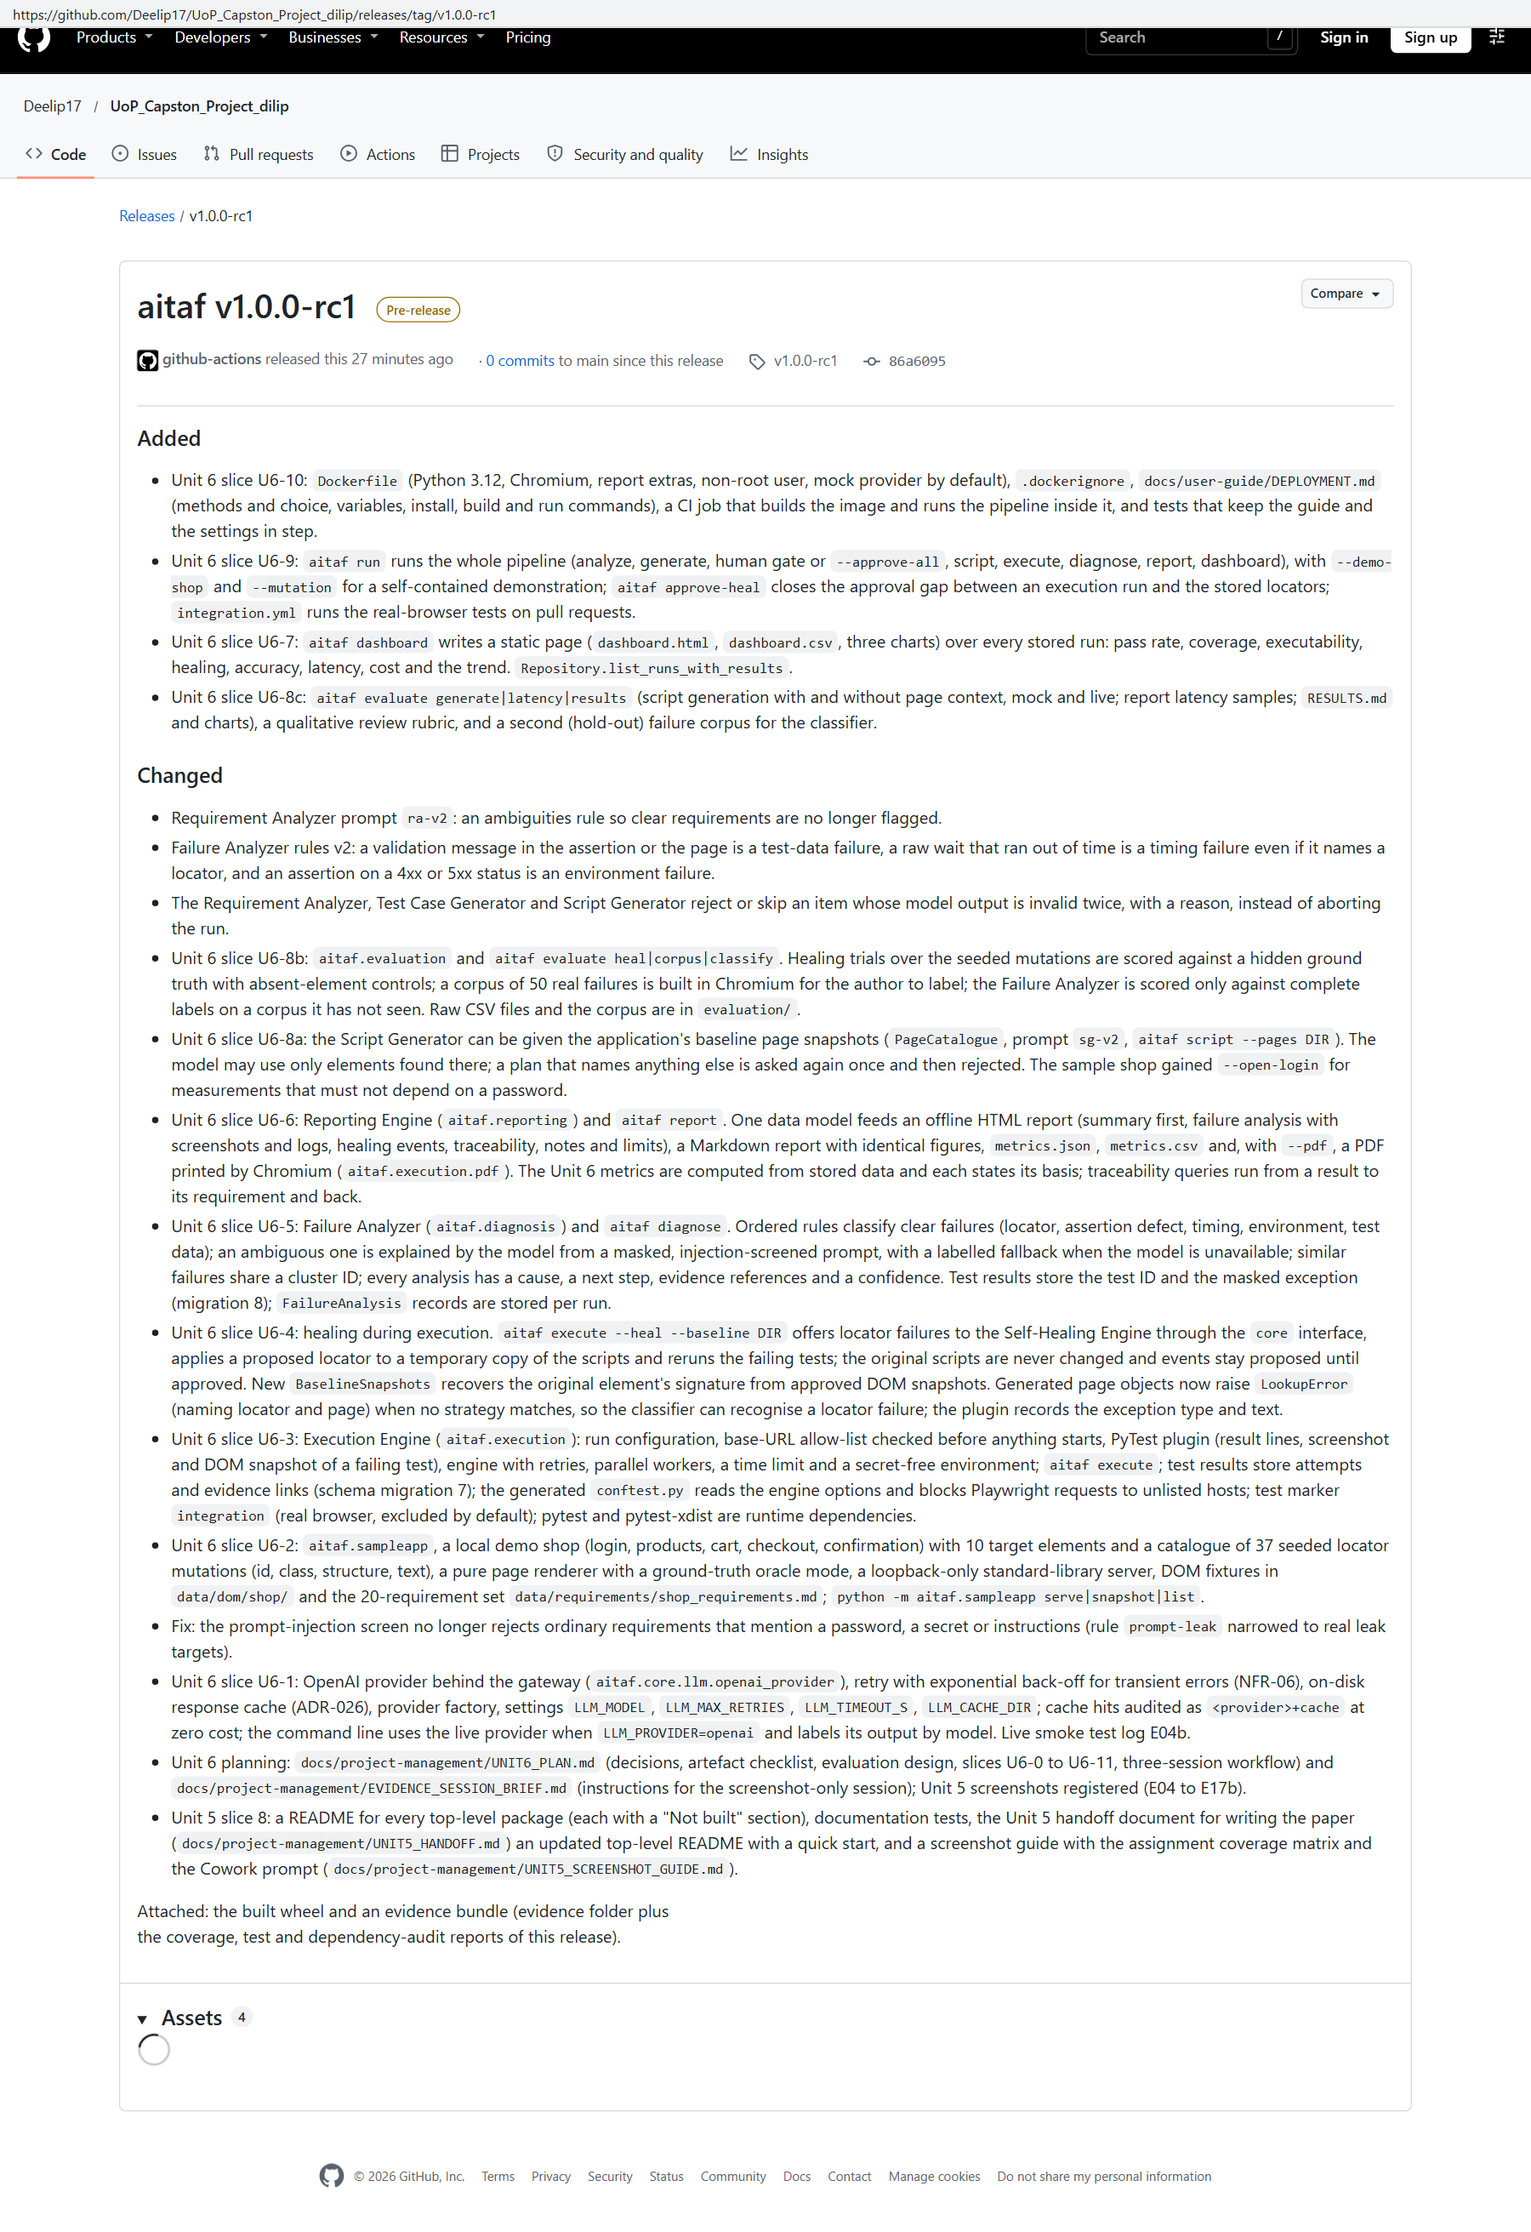
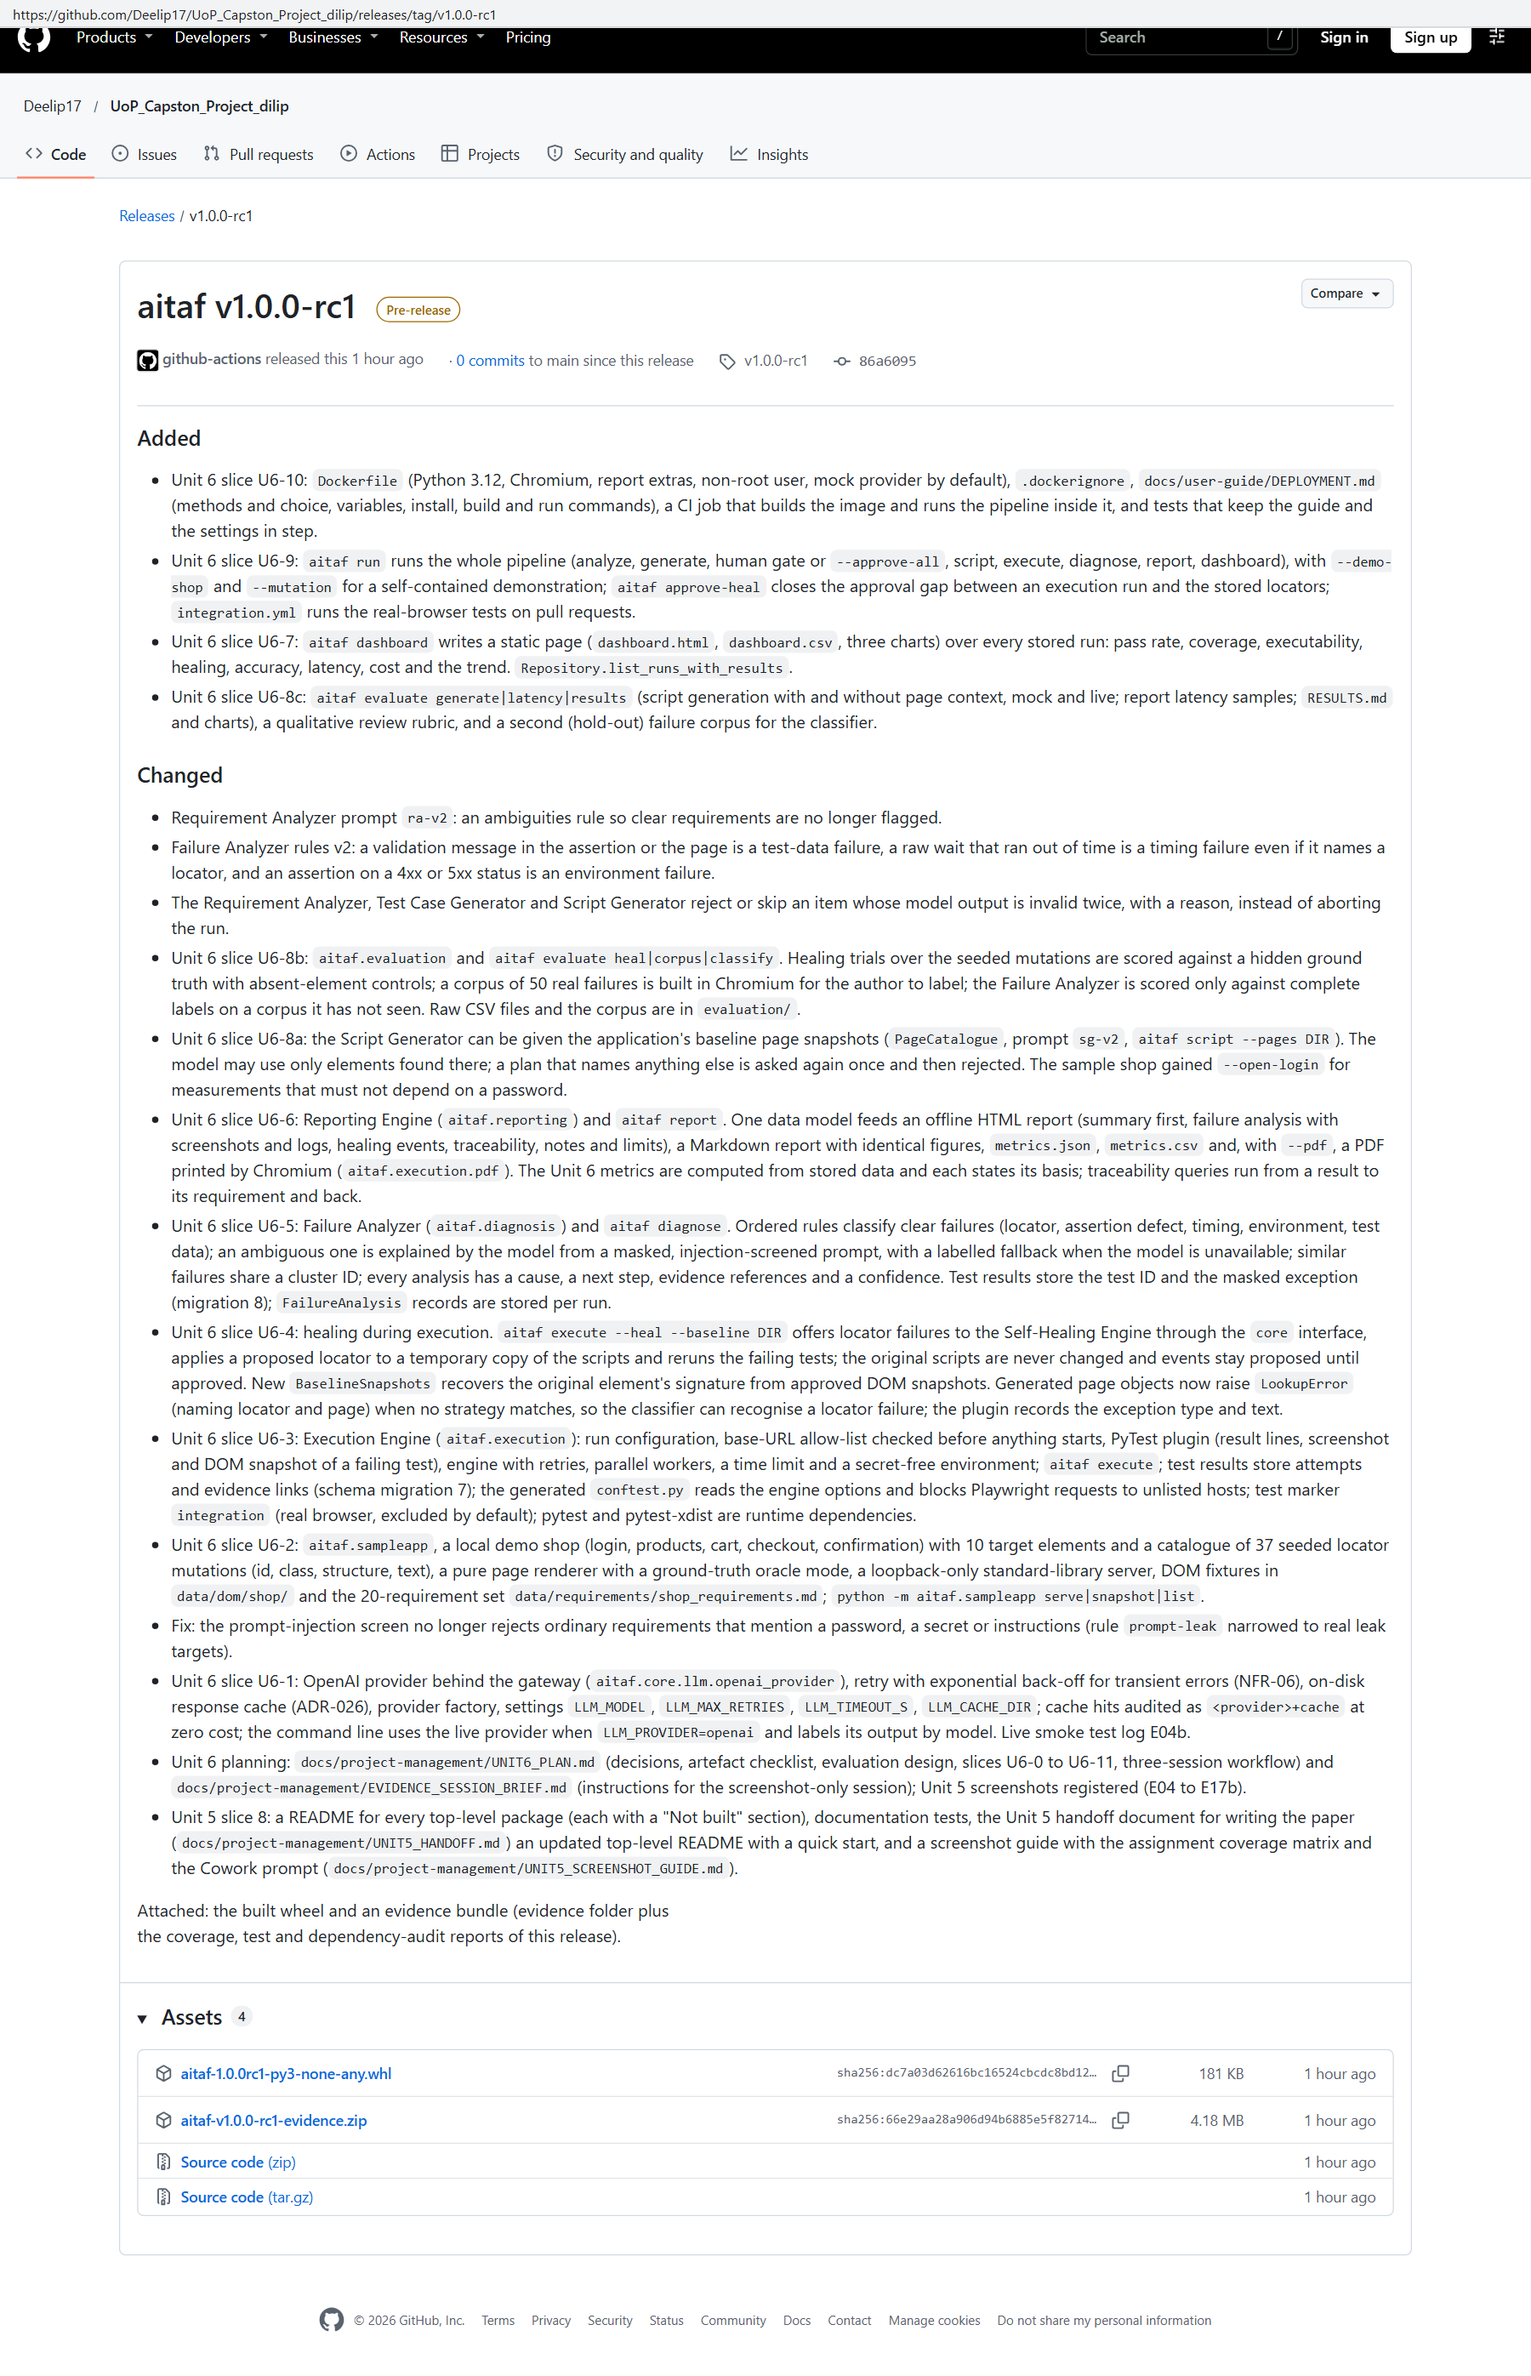
Evidence: re-captured readable crops for E10b, E15 and E17c; register updated

diff --git a/evidence/EVIDENCE_REGISTER.md b/evidence/EVIDENCE_REGISTER.md
@@ -36,13 +36,13 @@
 | E09b | Unit 6 slice U6-4: self-healing during a real-browser run (`aitaf execute --heal --baseline`): the sample shop's login button with an id, class, structure and text mutation (no stored fallbacks) and an unmutated control; healed locator per case. Text log. Five runs, a demonstration and not a success rate | unit06/logs/E09b_healing_in_execution_20261115.txt | 15 Nov 2026 | Unit 6 Part A, Ch. 4.2 |
 | E10 | Unit 6 slice U6-5: Failure Analyzer output (`aitaf diagnose`) on a real-browser run of five failures on the sample shop: category, confidence, cluster, cause, next step and evidence per failure, and the rules-only (`--no-llm`) comparison. Text log. The one failure no rule recognises is explained by the mock provider | unit06/logs/E10_failure_analysis_20261115.txt | 15 Nov 2026 | Unit 6 Part A, Ch. 4.2 |
 | E11 | Unit 6 slice U6-6: a complete report of a real-browser run (HTML, Markdown, PDF, metrics JSON and CSV, failure logs, screenshots) with traceability, healing events and failure analysis. Demonstration only: five hand-written scripts stand in for five approved generated test cases, so the executability figure is not meaningful; the numbers are not evaluation results. Screenshots of the HTML report are still to be captured | unit06/logs/E11_report_20261115.txt; unit06/E11_report/ | 15 Nov 2026 | Unit 6 Part A, Ch. 4.2 |
-| E10b | Unit 6 U6-9: `aitaf run` end to end on the demo shop, mock provider: three runs into one database (unmutated; `M-add_backpack-id`, no healing; same mutation with `--heal`). Console logs of the three runs (local paths replaced by `<repo>`) and the complete report of the third run (HTML, Markdown, metrics, screenshots, DOM snapshots, JUnit, healed copy). Demonstration, not an evaluation | unit06/E10_pipeline/ (`run1_console.txt`, `run2_console.txt`, `run3_console.txt`, `run3_report/report.html`); screenshots: unit06/screenshots/E10b_run_console.png and E10b_run_stages.png (captured 16 Nov; too tall to read in a Word page, re-capture the top and the execute/diagnose/report headings as ~1,250 px crops), E11_report_top.png, E11_report_failure.png | 16 Nov 2026 | Unit 6 A1, A2 |
+| E10b | Unit 6 U6-9: `aitaf run` end to end on the demo shop, mock provider: three runs into one database (unmutated; `M-add_backpack-id`, no healing; same mutation with `--heal`). Console logs of the three runs (local paths replaced by `<repo>`) and the complete report of the third run (HTML, Markdown, metrics, screenshots, DOM snapshots, JUnit, healed copy). Demonstration, not an evaluation | unit06/E10_pipeline/ (`run1_console.txt`, `run2_console.txt`, `run3_console.txt`, `run3_report/report.html`); screenshots: unit06/screenshots/E10b_run_console.png and E10b_run_stages.png (re-captured 16 Nov as readable crops), E11_report_top.png, E11_report_failure.png | 16 Nov 2026 | Unit 6 A1, A2 |
 | E11b | Unit 6 U6-7: Dashboard built from the three runs of E10b: `dashboard.html`, `dashboard.csv` and three charts (pass rate trend, quality trend, cost and latency). Open the HTML with a `file://` address | unit06/E11_dashboard/; screenshots: unit06/screenshots/E11b_dashboard_top.png, E11b_dashboard_trend.png (captured 16 Nov) | 16 Nov 2026 | Unit 6 A1, B2 |
 | E12 | Unit 6 inter-module and key-code excerpts (Execution Engine loop and healing call, healer interface, repository write and read, gateway call, Failure Analyzer rules, report metrics, Dashboard, evaluation harness, `aitaf run`). Screenshots of GitHub pages at tag `v1.0.0-rc1`; the line ranges are in `docs/project-management/UNIT6_SCREENSHOT_GUIDE.md` | unit06/screenshots/E12_*.png (12 files: engine_loop, engine_heal, failure_rules, report_metrics, dashboard_collect, eval_harness, gateway_call, repo_write_read, healer_interface, pipeline, approve_heal, scriptgen_catalogue) | 16 Nov 2026 | Unit 6 A2, A3 |
 | E13 | Unit 6 U6-8: measured results with raw data: healing (37 mutations, 10 absent-element controls), classification (dev 50 and hold-out 57 failures with the author's labels), generation (mock and live, with and without page context), non-LLM latency; `RESULTS.md`, CSV files and three charts | `evaluation/results/` (`RESULTS.md`, `*.csv`, `charts/*.png`), labels in `evaluation/corpus/` and `evaluation/corpus_holdout/`; screenshots: unit06/screenshots/E13_results_healing.png, E13_results_classification.png, E13_results_generation.png, E13_chart_healing.png, E13_chart_classification.png, E13_chart_generation.png (captured 16 Nov) | 16 Nov 2026 | Unit 6 B1, B3 |
 | E14 | Unit 6 qualitative review of the report and the Dashboard: rubric and rating sheet. The sheet holds a five-row AI-assisted draft (reviewer `AI1`) that is NOT a human review; the human ratings are still to be collected | `evaluation/qualitative/RUBRIC.md`, `evaluation/qualitative/ratings.csv` | pending | Unit 6 B2 |
-| E15 | Unit 6 U6-10: deployment pack and its verification: Dockerfile, `.dockerignore`, `DEPLOYMENT.md`, `.env.example`, and a log of the CI jobs that built the image and ran the whole pipeline inside it (CI #47, Integration #8, Release #3, all green). No local Docker run | `Dockerfile`, `.dockerignore`, `.env.example`, `docs/user-guide/DEPLOYMENT.md`, `unit06/logs/E15_deployment_ci_20261116.txt`; screenshots: unit06/screenshots/E15_dockerfile.png, E15_ci_integration.png (captured 16 Nov), E15_deployment_guide.png (too tall, re-capture sections 1 and 3 as separate crops); E15_ci_docker_job.png and E15_install_terminal.png are taken by the author | 16 Nov 2026 | Unit 6 C |
-| E17c | Unit 6 U6-9: annotated tag `v1.0.0-rc1` on `develop` (commit 86a6095) and its GitHub Release (prerelease) with the wheel and the evidence bundle; the first tag at 90cc1ed was refused by the release guard and moved | `unit06/logs/E17c_tag_v1.0.0-rc1_20261116.txt`; release page https://github.com/Deelip17/UoP_Capston_Project_dilip/releases/tag/v1.0.0-rc1; screenshots: unit06/screenshots/E17c_tags.png (captured 16 Nov), E17c_release_rc1.png (assets list had not loaded when captured, re-capture after the assets appear) | 16 Nov 2026 | Unit 6 C, D |
+| E15 | Unit 6 U6-10: deployment pack and its verification: Dockerfile, `.dockerignore`, `DEPLOYMENT.md`, `.env.example`, and a log of the CI jobs that built the image and ran the whole pipeline inside it (CI #47, Integration #8, Release #3, all green). No local Docker run | `Dockerfile`, `.dockerignore`, `.env.example`, `docs/user-guide/DEPLOYMENT.md`, `unit06/logs/E15_deployment_ci_20261116.txt`; screenshots: unit06/screenshots/E15_dockerfile.png, E15_ci_integration.png (captured 16 Nov), E15_deployment_guide.png (section 1) and E15_deployment_guide_s3.png (section 3), re-captured 16 Nov as separate crops; E15_ci_docker_job.png and E15_install_terminal.png are taken by the author | 16 Nov 2026 | Unit 6 C |
+| E17c | Unit 6 U6-9: annotated tag `v1.0.0-rc1` on `develop` (commit 86a6095) and its GitHub Release (prerelease) with the wheel and the evidence bundle; the first tag at 90cc1ed was refused by the release guard and moved | `unit06/logs/E17c_tag_v1.0.0-rc1_20261116.txt`; release page https://github.com/Deelip17/UoP_Capston_Project_dilip/releases/tag/v1.0.0-rc1; screenshots: unit06/screenshots/E17c_tags.png (captured 16 Nov), E17c_release_rc1.png (re-captured 16 Nov with the wheel and the evidence bundle visible) | 16 Nov 2026 | Unit 6 C, D |
 | E07c | Unit 6: CI run #47 summary on the release-candidate commit 86a6095, all jobs green (Ubuntu and Windows) | unit06/screenshots/E07_ci_summary.png | 16 Nov 2026 | Unit 6 D |
 | E17d | Public repository home signed out. **Do not use in the Unit 6 documents as it stands:** it shows the `main` branch, whose README still says no source code has been written and a stale contributor entry (`claude`); `main` holds only the Unit 3 baseline until submission | unit06/screenshots/E17_repo_home.png | 16 Nov 2026 | not used |
 
